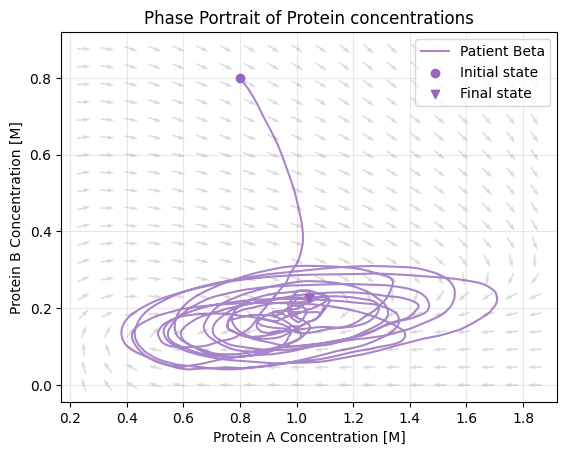
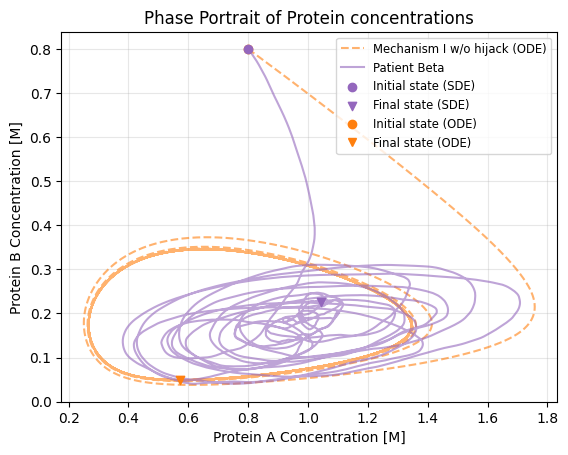
update plots

diff --git a/assignment2/main.py b/assignment2/main.py
@@ -145,7 +145,7 @@ def concentration_overtime(sol, t, hijack=None):
         plt.savefig("plots/alpha_1_proteins_mrna_time_hijack.png", dpi=300)
     else:
         plt.savefig("plots/alpha_1_proteins_mrna_time.png", dpi=300)
-    plt.show()
+    plt.clf()
 
 def phase_plots(sol, t, hijack=None):
     ra, rb, pA, pB = sol.y[0], sol.y[1], sol.y[2], sol.y[3]
@@ -182,7 +182,7 @@ def phase_plots(sol, t, hijack=None):
         plt.savefig("plots/alpha_3_phase_space_hijack.png", dpi=300)     
     else:
         plt.savefig("plots/alpha_3_phase_space.png", dpi=300)
-    plt.show()
+    plt.clf()
 
 def hill_plots(sol, t, hijack=None):
     ra, rb, pA, pB = sol.y[0], sol.y[1], sol.y[2], sol.y[3]
@@ -226,7 +226,7 @@ def hill_plots(sol, t, hijack=None):
         plt.savefig("plots/alpha_4_hill_functions_hijack.png", dpi=300)
     else:
         plt.savefig("plots/alpha_4_hill_functions.png", dpi=300)
-    plt.show()
+    plt.clf()
 
 def plot_rates(sol, t, hijack=None):
     ra, rb, pA, pB = sol.y[0], sol.y[1], sol.y[2], sol.y[3]
@@ -256,7 +256,7 @@ def plot_rates(sol, t, hijack=None):
         plt.savefig("plots/alpha_5_rates_hijack.png", dpi=300)
     else:
         plt.savefig("plots/alpha_5_rates.png", dpi=300)
-    plt.show()
+    plt.clf()
 
 def solve_sde_velo(dt, steps):
     t = np.linspace(0, steps * dt, steps)
@@ -293,68 +293,105 @@ def solve_sde_velo(dt, steps):
     return u, s, p, t
 
 
-def sdevelo_phase_portrait(sol_sde, label_sde, ode_func, savefig=None, title="", ode_args=(), padding=0.1, grid_size=20):
+def sdevelo_phase_portrait(
+    sol_sde, 
+    label_sde, 
+    ode_func=None, 
+    sol_ode=None, 
+    label_ode="ODE Trajectory", 
+    savefig=None, 
+    title="", 
+    ode_args=(), 
+    padding=0.1, 
+    grid_size=20,
+    show_vector_field=True
+):
     u, s, p, t = sol_sde
     pA_sde, pB_sde = np.ravel(p[0]), np.ravel(p[1])
 
     pA_min, pA_max = pA_sde.min(), pA_sde.max()
     pB_min, pB_max = pB_sde.min(), pB_sde.max()
 
+    if sol_ode is not None:
+        pA_ode, pB_ode = sol_ode.y[2], sol_ode.y[3]
+        pA_min, pA_max = min(pA_min, pA_ode.min()), max(pA_max, pA_ode.max())
+        pB_min, pB_max = min(pB_min, pB_ode.min()), max(pB_max, pB_ode.max())
+
     pA_range = pA_max - pA_min if (pA_max - pA_min) > 0 else 1.0
     pB_range = pB_max - pB_min if (pB_max - pB_min) > 0 else 1.0
 
-    pA_grid = np.linspace(max(0, pA_min - padding * pA_range), pA_max + padding * pA_range, grid_size)
-    pB_grid = np.linspace(max(0, pB_min - padding * pB_range), pB_max + padding * pB_range, grid_size)
-    PA, PB = np.meshgrid(pA_grid, pB_grid)
-    
-    U = np.zeros_like(PA)
-    V = np.zeros_like(PB)
-    
-    def mrna_roots(vars_r, pa_val, pb_val):
-        ra, rb = vars_r
-        derivs = ode_func(0, [ra, rb, pa_val, pb_val], *ode_args)
-        return [derivs[0], derivs[1]] 
-    
-    ra_guess, rb_guess = np.mean(u), np.mean(s)
-    
-    for i in range(grid_size):
-        for j in range(grid_size):
-            pa_val = PA[i, j]
-            pb_val = PB[i, j]
-            
-            try:
-                ra_ss, rb_ss = fsolve(mrna_roots, [ra_guess, rb_guess], args=(pa_val, pb_val))
-            except Exception:
-                ra_ss, rb_ss = ra_guess, rb_guess
-                
-            derivatives = ode_func(0, [ra_ss, rb_ss, pa_val, pb_val], *ode_args) 
-            
-            U[i, j] = float(np.squeeze(derivatives[2]))
-            V[i, j] = float(np.squeeze(derivatives[3]))
-            
-    N = np.sqrt(U**2 + V**2)
-    N[N == 0] = 1.0
-    U_norm = U / N
-    V_norm = V / N
-
     fig, ax = plt.subplots()
 
-    ax.quiver(PA, PB, U_norm, V_norm, color='lightgray', alpha=0.8, pivot='mid')
-    ax.plot(pA_sde, pB_sde, label=label_sde, color="tab:purple", zorder=4, alpha=0.8)
+    if show_vector_field and ode_func is not None:
+        pA_grid = np.linspace(max(0, pA_min - padding * pA_range), pA_max + padding * pA_range, grid_size)
+        pB_grid = np.linspace(max(0, pB_min - padding * pB_range), pB_max + padding * pB_range, grid_size)
+        PA, PB = np.meshgrid(pA_grid, pB_grid)
+        
+        U = np.zeros_like(PA)
+        V = np.zeros_like(PB)
+        
+        def mrna_roots(vars_r, pa_val, pb_val):
+            ra, rb = vars_r
+            derivs = ode_func(0, [ra, rb, pa_val, pb_val], *ode_args)
+            return [derivs[0], derivs[1]] 
+        
+        ra_guess, rb_guess = 0.8, 0.8
+        
+        for i in range(grid_size):
+            for j in range(grid_size):
+                pa_val = PA[i, j]
+                pb_val = PB[i, j]
+                
+                try:
+                    ra_ss, rb_ss = fsolve(mrna_roots, [ra_guess, rb_guess], args=(pa_val, pb_val))
+                except Exception:
+                    ra_ss, rb_ss = ra_guess, rb_guess
+                    
+                derivatives = ode_func(0, [ra_ss, rb_ss, pa_val, pb_val], *ode_args) 
+                
+                U[i, j] = float(np.squeeze(derivatives[2]))
+                V[i, j] = float(np.squeeze(derivatives[3]))
+                
+        N = np.sqrt(U**2 + V**2)
+        N[N == 0] = 1.0
+        U_norm = U / N
+        V_norm = V / N
 
-    ax.scatter(pA_sde[0], pB_sde[0], color="tab:purple", marker="o", zorder=5, label="Initial state")
-    ax.scatter(pA_sde[-1], pB_sde[-1], color="tab:purple", marker="v", zorder=5, label="Final state")
+        ax.quiver(PA, PB, U_norm, V_norm, color='lightgray', alpha=0.8, pivot='mid')
+
+    if sol_ode is not None:
+        ax.plot(pA_ode, pB_ode, label=label_ode, color="tab:orange", zorder=3, linestyle="--", alpha=0.6)
+        ax.scatter(pA_ode[0], pB_ode[0], color="tab:orange", marker="o", zorder=5)
+        ax.scatter(pA_ode[-1], pB_ode[-1], color="tab:orange", marker="v", zorder=5)
+
+    ax.plot(pA_sde, pB_sde, label=label_sde, color="tab:purple", zorder=4, alpha=0.6)
+    ax.scatter(pA_sde[0], pB_sde[0], color="tab:purple", marker="o", zorder=5, label="Initial state (SDE)")
+    ax.scatter(pA_sde[-1], pB_sde[-1], color="tab:purple", marker="v", zorder=5, label="Final state (SDE)")
 
     ax.set_xlabel("Protein A Concentration [M]")
     ax.set_ylabel("Protein B Concentration [M]")
     ax.grid(True, alpha=0.3)
 
-    ax.legend()
+    handles, labels = ax.get_legend_handles_labels()
+    
+    if show_vector_field and ode_func is not None:
+        ode_proxy = Line2D([0], [0], color='gray', marker=r'$\rightarrow$', markersize=8, linestyle='None')
+        handles.append(ode_proxy)
+        labels.append("ODE Vector Field")
+        
+    if sol_ode is not None:
+        ode_start_proxy = Line2D([0], [0], color='tab:orange', marker='o', markersize=6, linestyle='None')
+        ode_end_proxy = Line2D([0], [0], color='tab:orange', marker='v', markersize=6, linestyle='None')
+        handles.extend([ode_start_proxy, ode_end_proxy])
+        labels.extend(["Initial state (ODE)", "Final state (ODE)"])
+
+    ax.legend(handles=handles, labels=labels, loc='best', fontsize='small')
     ax.set_title(title)
 
     if savefig is not None:
         plt.savefig(f"plots/{savefig}", bbox_inches="tight")
-    plt.show()
+    
+    plt.close(fig)
 
 def sdevelo_multiplot(n_runs, dt, steps, sol_ode, title="", savefig=None):
     t = np.linspace(0, steps * dt, steps)
@@ -411,7 +448,7 @@ def sdevelo_multiplot(n_runs, dt, steps, sol_ode, title="", savefig=None):
 
     if savefig is not None:
         plt.savefig(f"plots/{savefig}")
-    plt.show()
+    plt.clf()
 
 
 def plot_sdevelo_concentrations(
@@ -514,7 +551,7 @@ def plot_sdevelo_concentrations(
 
     if savefig is not None:
         plt.savefig(f"plots/{savefig}")
-    plt.show()
+    plt.clf()
 
 
 if __name__ == "__main__":
@@ -623,9 +660,11 @@ if __name__ == "__main__":
     sdevelo_phase_portrait(
         solve_sde_velo(dt, steps),
         "Patient Beta",
-        patient_alpha_ode,
-        ode_args=(False,),
-        grid_size=20,
+        # ode_func=patient_alpha_ode,
+        sol_ode=sol_ode,
+        label_ode="Mechanism I w/o hijack (ODE)",
+        # ode_args=(False,),
+        grid_size=30,
         title="Phase Portrait of Protein concentrations",
         savefig="sdevelo_phase_portrait",
     )
